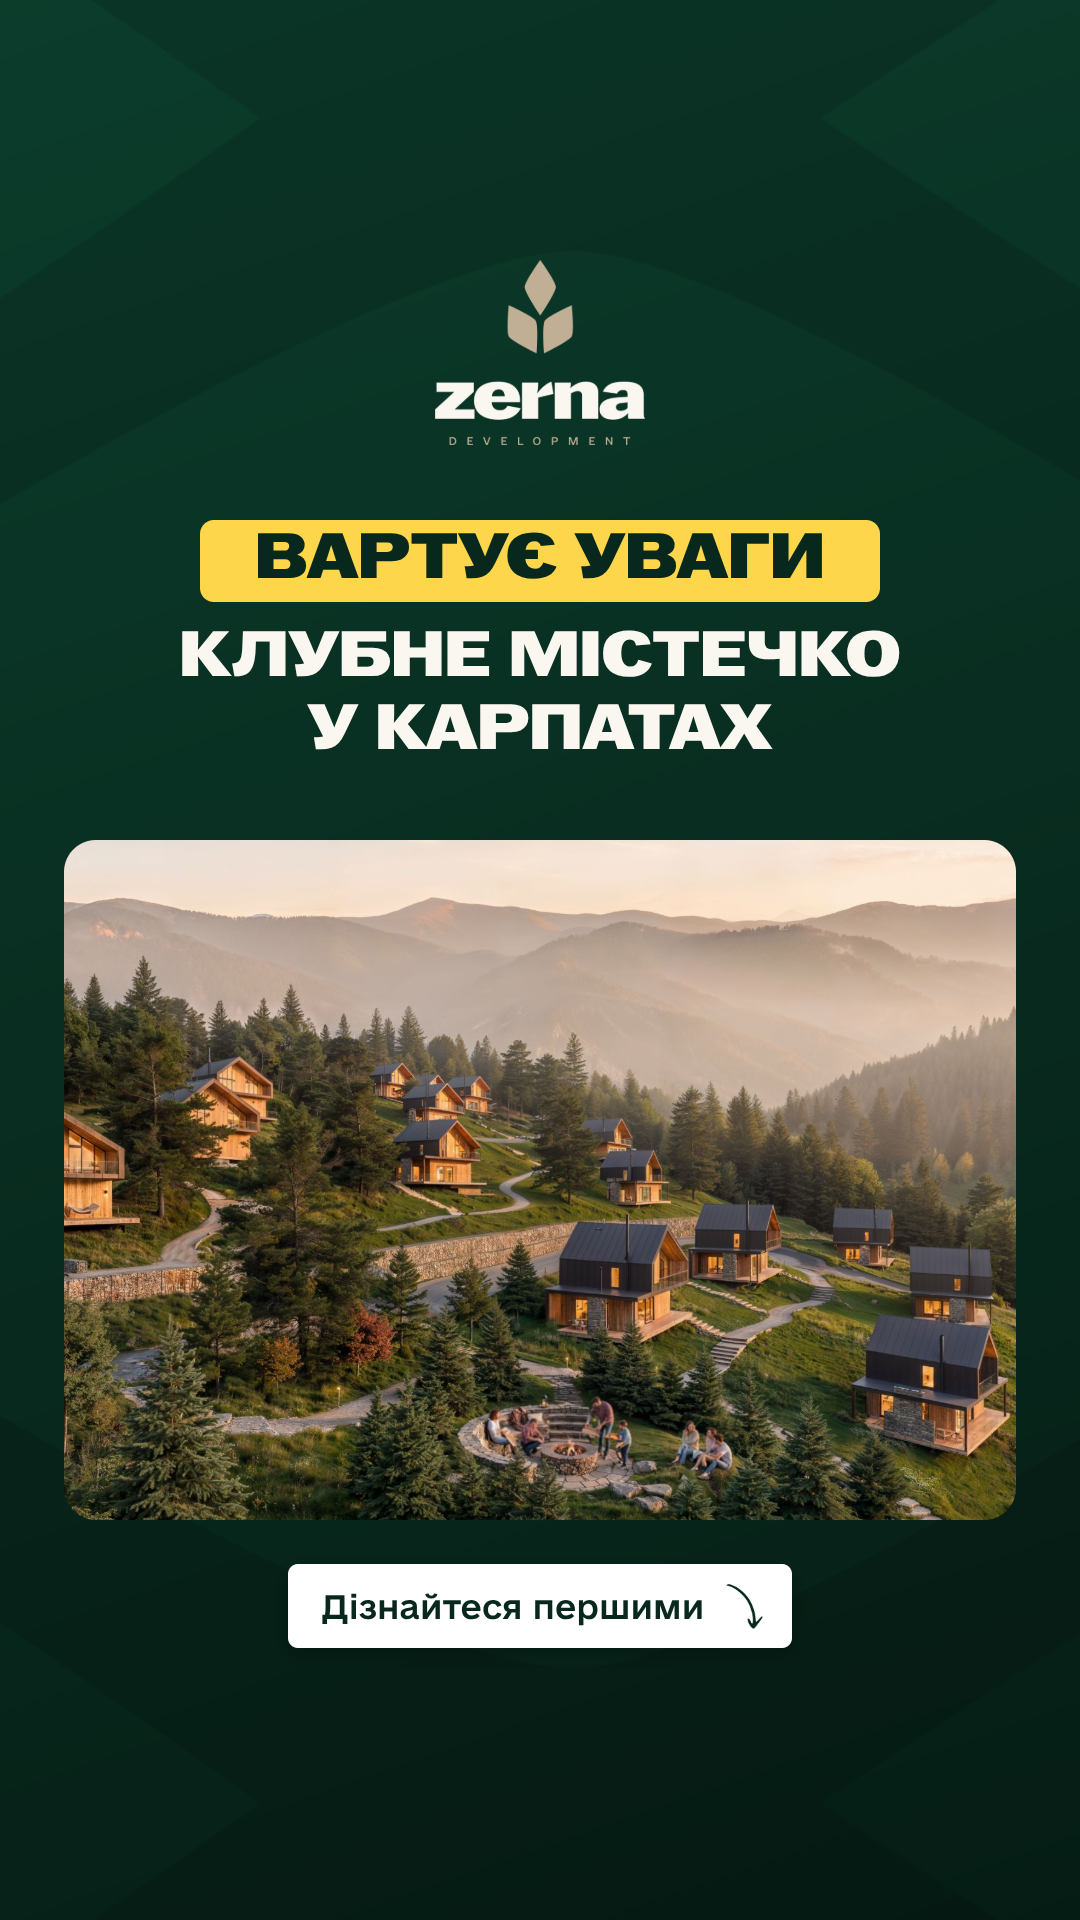
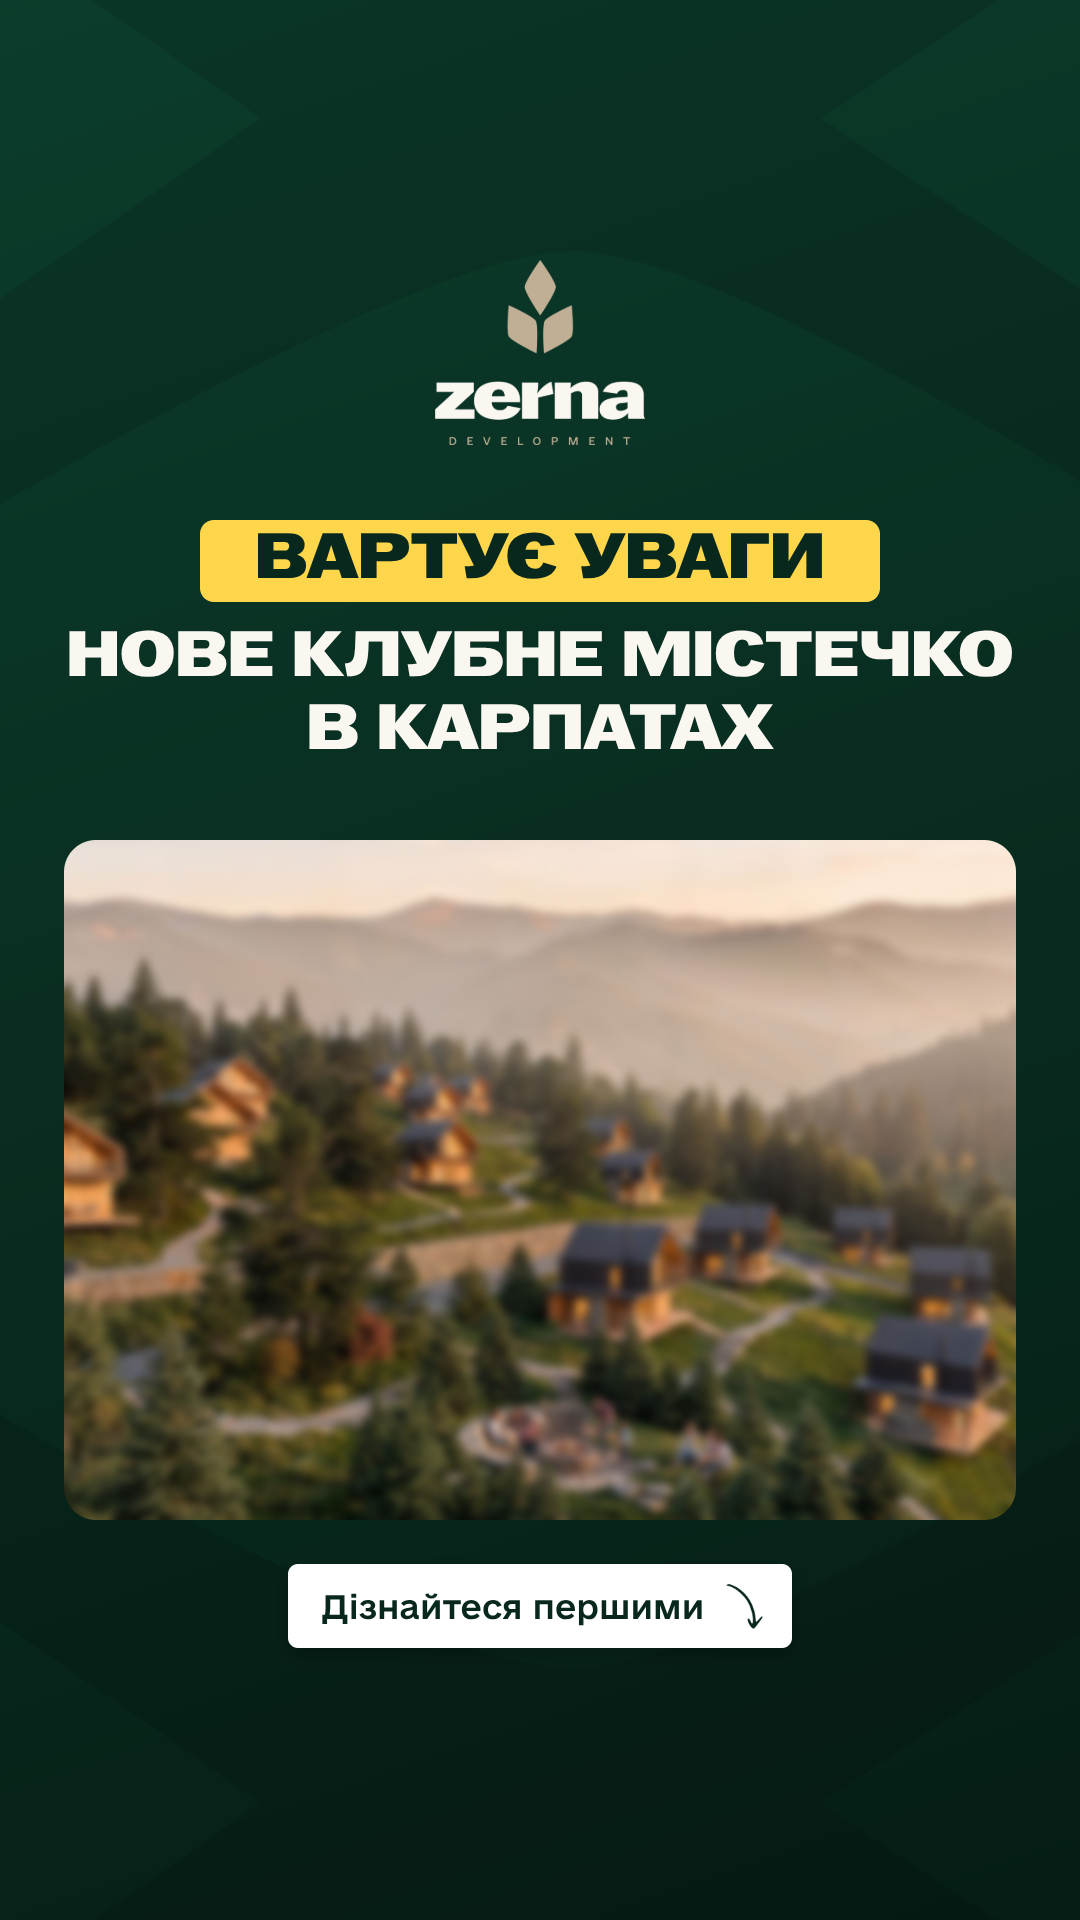
Blur the genplan renders in covers and teasers; new line on cover 2
Phase 0 shows silhouettes, not details: scripts/zerna-soft.py makes soft
copies of both genplan renders (Gaussian 5 px night, 7 px day, in source
pixels) and both teasers and covers use them. Cover 2 title is now
«НОВЕ КЛУБНЕ МІСТЕЧКО В КАРПАТАХ», fitted between the 64 px margins.

Claude-Session: https://claude.ai/code/session_014txzFo5h2qB97A5SdJxbjS

Changed region(s): [[0.0611, 0.5, 0.9472, 0.8125], [0.0611, 0.3125, 0.9472, 0.4062]]

diff --git a/src/zerna-cover/Cover.tsx b/src/zerna-cover/Cover.tsx
@@ -1,5 +1,5 @@
 import { AbsoluteFill, Img, staticFile } from "remotion";
-import { useFontsReady } from "../zerna/fonts";
+import { fitSize, useFontsReady } from "../zerna/fonts";
 import { C, EUKR, H, MURS, W } from "../zerna/theme";
 
 // Reels covers, 1080x1920, after the Zerna design code v1.0:
@@ -62,7 +62,7 @@ export const Cover1: React.FC<{ accent: string; title: readonly string[]; sub: s
     <AbsoluteFill style={{ background: C.green }}>
       <Background src="zerna-cover/bg-green-leaf.png" />
       <Img
-        src={staticFile("zerna/genplan-night.jpg")}
+        src={staticFile("zerna/genplan-night-soft.jpg")}
         style={{ position: "absolute", top, height: ph, width: pw, left: W / 2 - (cx * ph) / 1121 }}
       />
       {/* §7.6: text never sits on the photo without the green overlay; here it fades the photo in from the top */}
@@ -100,6 +100,8 @@ export const Cover2: React.FC<{ plate: string; title: readonly string[]; cta: st
   const scale = card.h / 1123;
   const iw = 2000 * scale;
   const cx = 1180;
+  // 64 px unless the longest line needs less to fit between the margins (§8 allows 52..64)
+  const size = ok ? Math.max(52, Math.floor(fitSize(title, MURS, 900, W - 2 * MARGIN, 64))) : 64;
   return (
     <AbsoluteFill style={{ background: C.green }}>
       <Background src="zerna-cover/bg-green-rhombus.png" />
@@ -112,13 +114,13 @@ export const Cover2: React.FC<{ plate: string; title: readonly string[]; cta: st
               {plate}
             </div>
             {title.map((l) => (
-              <div key={l} style={TITLE}>
+              <div key={l} style={{ ...TITLE, fontSize: size, whiteSpace: "nowrap" }}>
                 {l}
               </div>
             ))}
           </div>
           <div style={{ position: "absolute", top: card.top, left: MARGIN, width: card.w, height: card.h, borderRadius: 32, overflow: "hidden" }}>
-            <Img src={staticFile("zerna2/genplan.jpg")} style={{ position: "absolute", top: 0, height: card.h, width: iw, left: card.w / 2 - cx * scale }} />
+            <Img src={staticFile("zerna2/genplan-soft.jpg")} style={{ position: "absolute", top: 0, height: card.h, width: iw, left: card.w / 2 - cx * scale }} />
           </div>
           <Sticker text={cta} top={card.top + card.h + 44} />
         </>

diff --git a/src/Root.tsx b/src/Root.tsx
@@ -11,7 +11,7 @@ import * as Z2 from "./zerna2/theme";
 // Night render of the Zerna genplan, seen from above, panning left to right.
 // The light lands on the beat on what each line names.
 const picture: Z.Picture = {
-  src: "zerna/genplan-night.jpg",
+  src: "zerna/genplan-night-soft.jpg", // blurred: phase 0 shows silhouettes only (scripts/zerna-soft.py)
   size: { w: 2000, h: 1121 },
   cx: [820, 1250],
   gain: 1.9, // a night render: the light has to lift it more than a daylight picture
@@ -61,7 +61,7 @@ export const RemotionRoot: React.FC = () => (
       component={Cover2}
       width={Z.W}
       height={Z.H}
-      defaultProps={{ plate: "ВАРТУЄ УВАГИ", title: ["КЛУБНЕ МІСТЕЧКО", "У КАРПАТАХ"], cta: "Дізнайтеся першими" }}
+      defaultProps={{ plate: "ВАРТУЄ УВАГИ", title: ["НОВЕ КЛУБНЕ МІСТЕЧКО", "В КАРПАТАХ"], cta: "Дізнайтеся першими" }}
     />
   </>
 );

diff --git a/src/zerna2/Beam.tsx b/src/zerna2/Beam.tsx
@@ -18,5 +18,5 @@ export const Beam: React.FC = () => {
       : interpolate(frame, [turn, end - 6], [86, 6], { easing: inOut, extrapolateRight: "clamp" });
   const tint = interpolateColors(frame, [T.beam, turn, end], ["#FDD64C", "#FFE9B8", "#F3B97A"]);
 
-  return <Sweep src="zerna2/genplan.jpg" size={{ w: 2000, h: 1123 }} pan={pan} zoom={zoom} p={p} half={24} tint={tint} on={on} />;
+  return <Sweep src="zerna2/genplan-soft.jpg" size={{ w: 2000, h: 1123 }} pan={pan} zoom={zoom} p={p} half={24} tint={tint} on={on} />;
 };

diff --git a/scripts/zerna-soft.py b/scripts/zerna-soft.py
@@ -1,0 +1,16 @@
+"""Soft copies of the genplan renders: phase 0 shows the silhouettes, not the details.
+
+Gaussian blur in source pixels, so every place a render appears (videos at 1.7x, covers at 0.6-1x)
+loses the same detail: windows, cars, people and paths blur, house and road shapes stay readable.
+The day render gets more because its houses are about twice as large in the frame.
+"""
+from PIL import Image, ImageFilter
+
+SOFT = [
+    ("public/zerna/genplan-night.jpg", "public/zerna/genplan-night-soft.jpg", 5),
+    ("public/zerna2/genplan.jpg", "public/zerna2/genplan-soft.jpg", 7),
+]
+
+for src, dst, radius in SOFT:
+    Image.open(src).convert("RGB").filter(ImageFilter.GaussianBlur(radius)).save(dst, quality=92)
+    print(dst, radius)

diff --git a/zerna-teaser/README.md b/zerna-teaser/README.md
@@ -40,7 +40,8 @@ Playfair Display, Oswald, Caveat, Lobster, Comfortaa (усі з кирилице
 
 ## Картинка і світло
 
-Нічний рендер генплану «Зерна» згори (`public/zerna/genplan-night.jpg`, 2000×1121) у темряві, з повільною
+Нічний рендер генплану «Зерна» згори (`public/zerna/genplan-night.jpg`, 2000×1121; у ролику й на обкладинці — розмита
+копія `genplan-night-soft.jpg`, `npm run zerna:soft`: на фазі 0 видно силуети, а не деталі) у темряві, з повільною
 панорамою зліва направо; тепла смуга світла (спільний компонент `src/zerna/Sweep.tsx`, той самий, що в тизері 2)
 на кожен удар переходить до того, про що каже текст: ліс і перші будинки → дорога → верх плану → група будинків.
 Рендер нічний, тому світло підсилене (`gain: 1.9`). Текст стоїть у верхній третині кадру.
